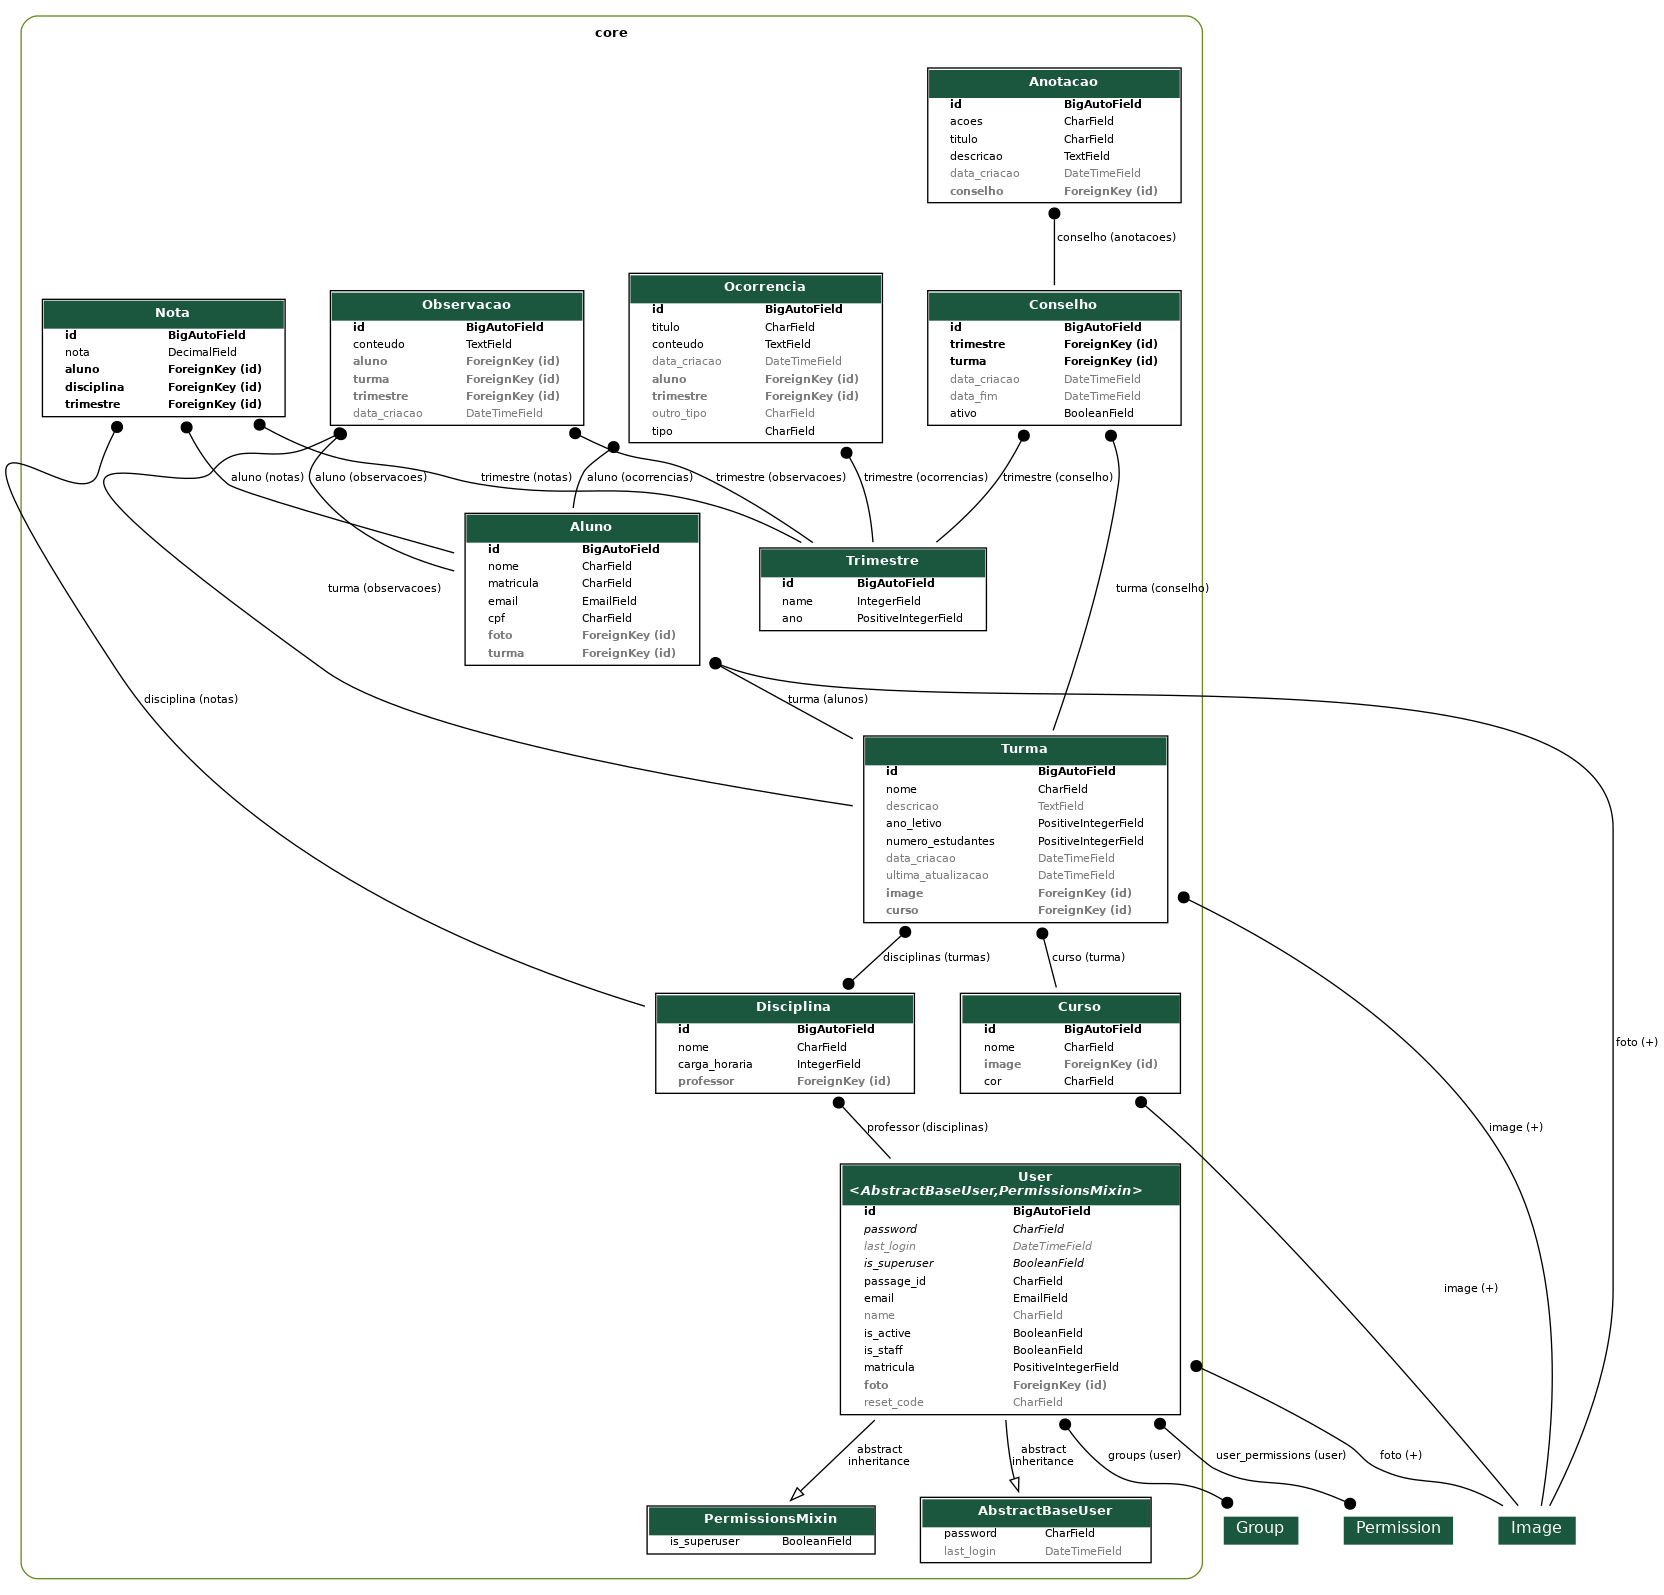
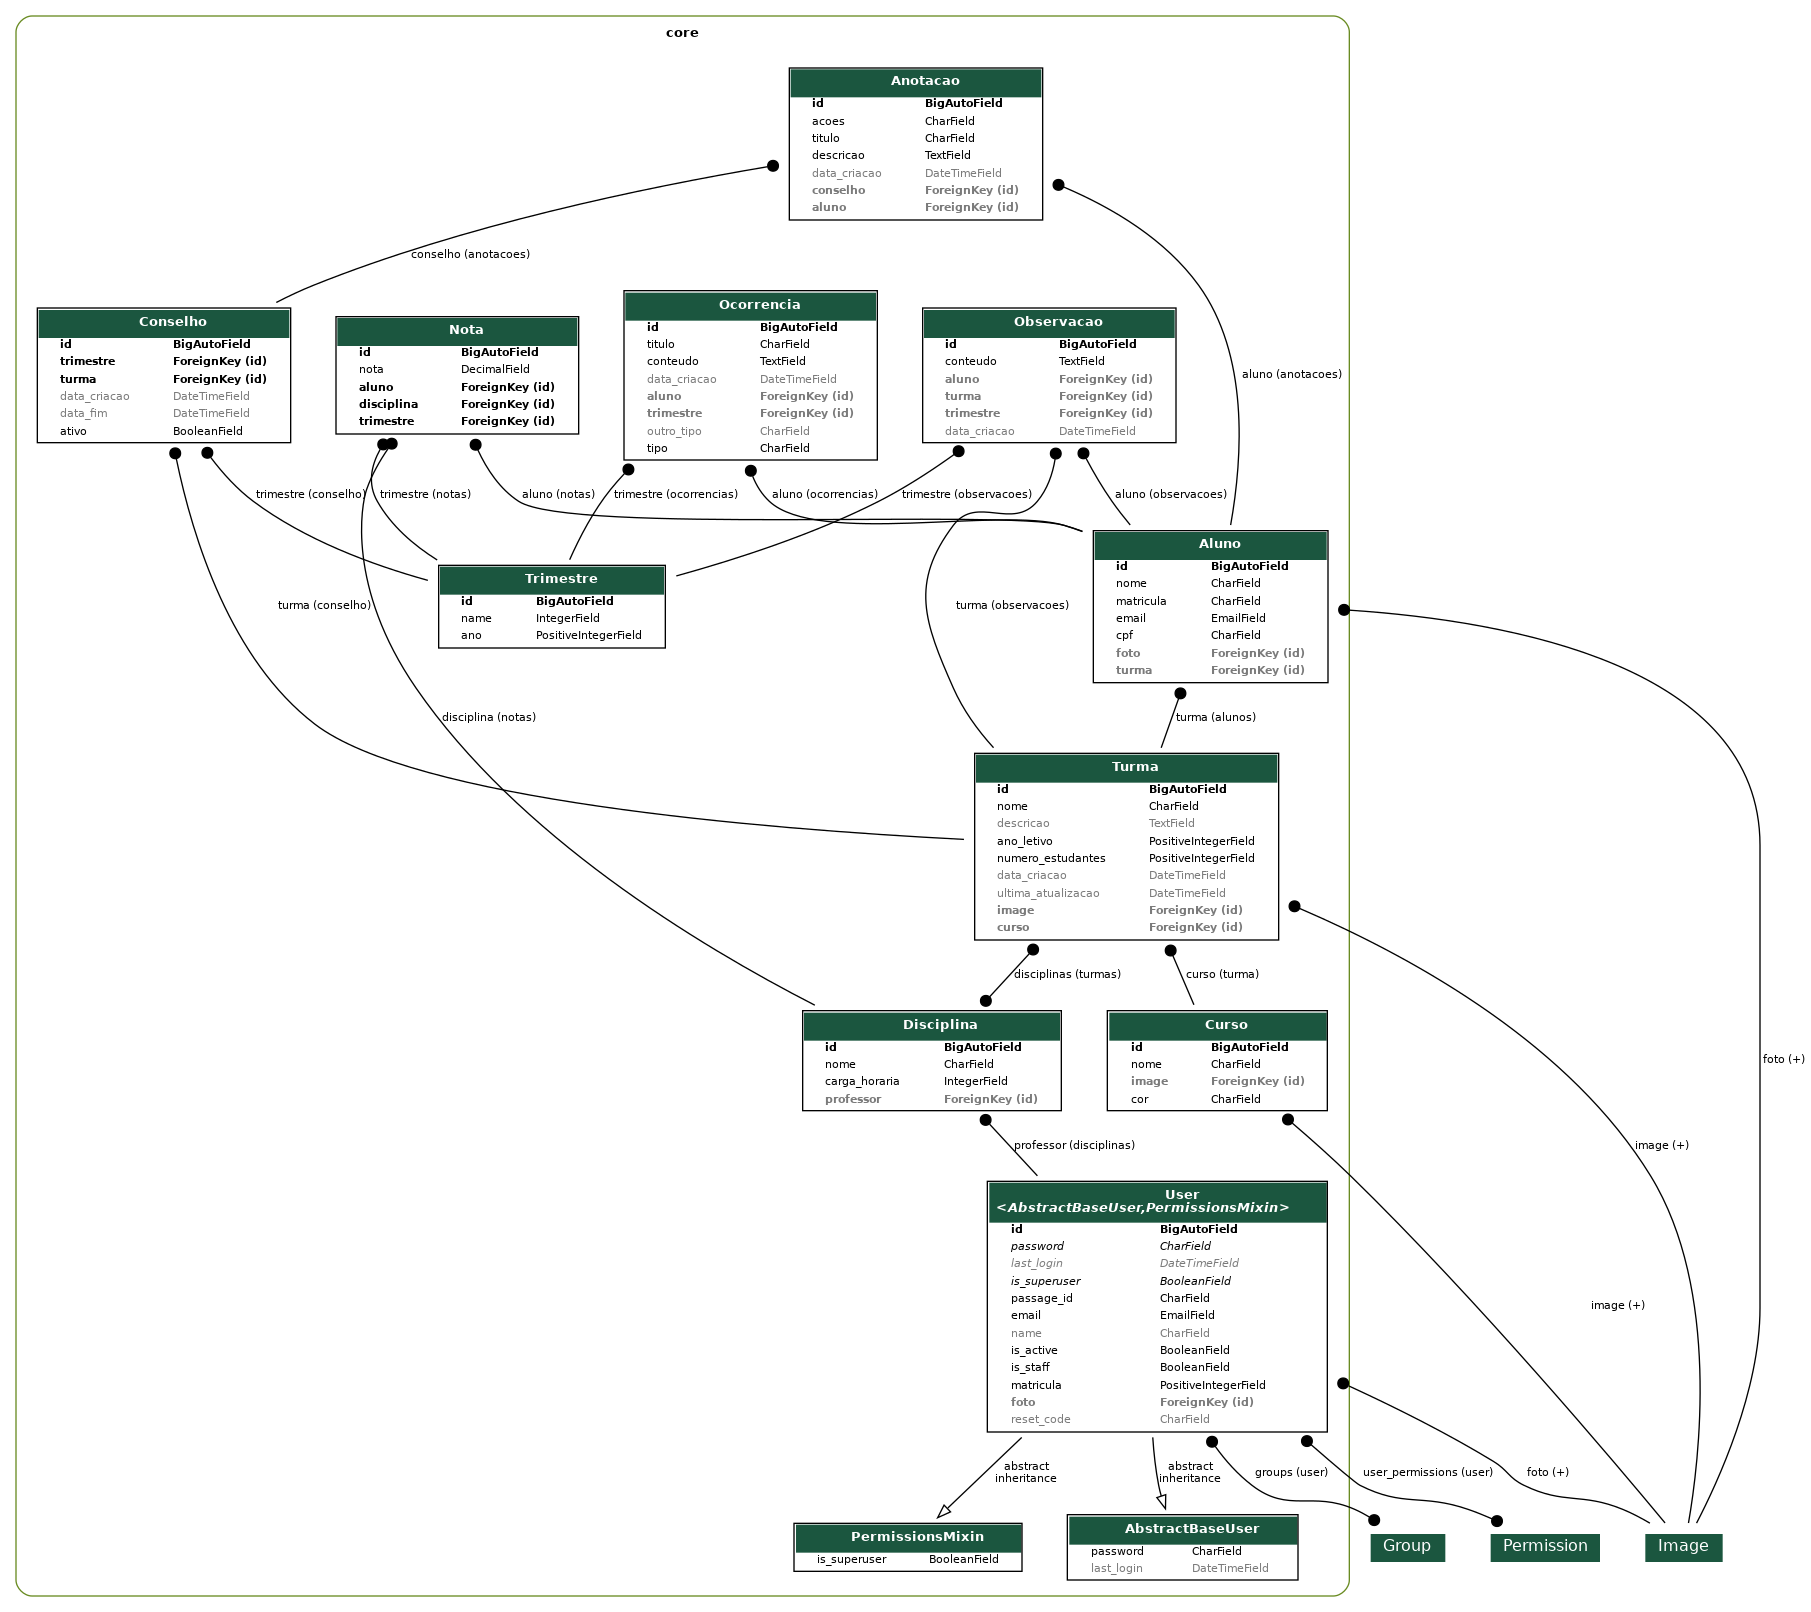
FEAT: campo aluno na model anotacao adicionado

diff --git a/core/migrations/0017_anotacao_aluno.py b/core/migrations/0017_anotacao_aluno.py
@@ -1,0 +1,26 @@
+# Generated by Django 5.1.3 on 2024-11-29 21:18
+
+import django.db.models.deletion
+from django.db import migrations, models
+
+
+class Migration(migrations.Migration):
+
+    dependencies = [
+        ("core", "0016_anotacao_conselho"),
+    ]
+
+    operations = [
+        migrations.AddField(
+            model_name="anotacao",
+            name="aluno",
+            field=models.ForeignKey(
+                blank=True,
+                default=None,
+                null=True,
+                on_delete=django.db.models.deletion.CASCADE,
+                related_name="anotacoes",
+                to="core.aluno",
+            ),
+        ),
+    ]

diff --git a/core/models/anotacao.py b/core/models/anotacao.py
@@ -1,6 +1,6 @@
 from django.db import models
 
-from core.models import Conselho
+from core.models import Conselho, Aluno
 
 class Anotacao(models.Model):
     class Tipo(models.TextChoices):
@@ -15,6 +15,7 @@ class Anotacao(models.Model):
     descricao = models.TextField()
     data_criacao = models.DateTimeField(auto_now_add=True)
     conselho = models.ForeignKey(Conselho, on_delete=models.CASCADE, related_name='anotacoes', null=True, blank=True, default=None)
+    aluno = models.ForeignKey(Aluno, on_delete=models.CASCADE, related_name='anotacoes', null=True, blank=True, default=None)
 
 
     def __str__(self):
